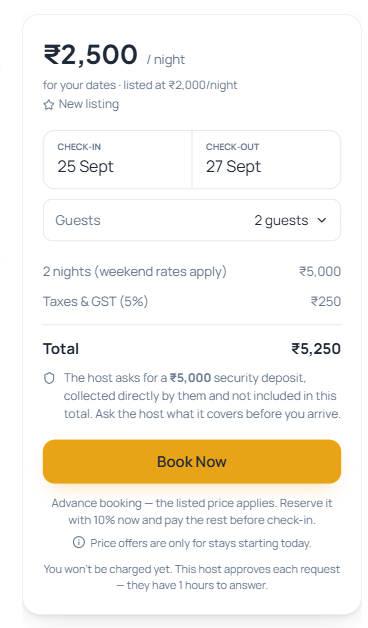
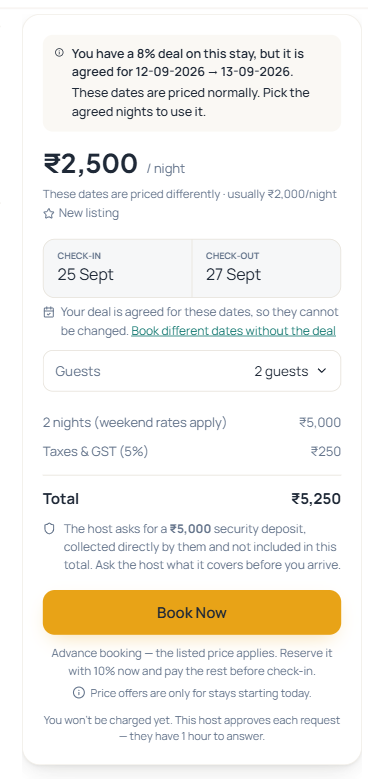
fix(app): the notification switch governs the email too
Parity with the web fix: a category switch wrote `push` alone while the email
copy of the same notification was sent regardless. WhatsApp is left as its own
question — it carries marketing only.

Also captures the journey document's notification evidence: the guest's bell,
the host's feed, the preferences panel, and one delivered email opened in the
mailbox it arrived at. The email script opens ONE message by subject and never
renders the inbox list, because that address also receives sign-in codes and a
one-time code must not end up in a document.

diff --git a/aajoo_app_2026/lib/service/notification_service.dart b/aajoo_app_2026/lib/service/notification_service.dart
@@ -189,11 +189,26 @@ class NotificationService {
     _dio.options.baseUrl = baseUrl;
     _dio.options.headers["Authorization"] = 'Bearer $token';
     try {
+      // A category switch governs BOTH interrupting channels.
+      //
+      // Since 2026-09-12 every notification also goes out as mail, gated by
+      // the same category on the server's `email` map -- a map nothing on this
+      // screen could reach, so a guest who turned "Offers and negotiations"
+      // off went on receiving an email for every counter. WhatsApp is its own
+      // question (marketing only) and is left alone.
+      //
+      // One key per channel, never the whole object: the server merges, and
+      // this client may know about fewer categories than it does.
       final res = await _dio.put(
         "/user/notification/preferences",
-        data: {
-          channel: {key: value}
-        },
+        data: channel == 'push'
+            ? {
+                'push': {key: value},
+                'email': {key: value},
+              }
+            : {
+                channel: {key: value}
+              },
       );
       final prefs = res.data?["data"]?["preferences"];
       return prefs is Map ? Map<String, dynamic>.from(prefs) : null;

diff --git a/aajoo_app_2026/lib/ui/screens_common/settings/notification_preferences_page.dart b/aajoo_app_2026/lib/ui/screens_common/settings/notification_preferences_page.dart
@@ -174,7 +174,7 @@ class _NotificationPreferencesPageState
                         left: 16, top: 12, right: 16, bottom: 16),
                     children: [
                       Text(
-                        'Choose what reaches your phone. '
+                        'Choose what interrupts you \u2014 on your phone and by email. '
                         '${_inAppNote ?? 'Your notifications list always keeps a record.'}',
                         style: inter(fontSize: 13, color: kMuted, height: 1.5),
                       ),
